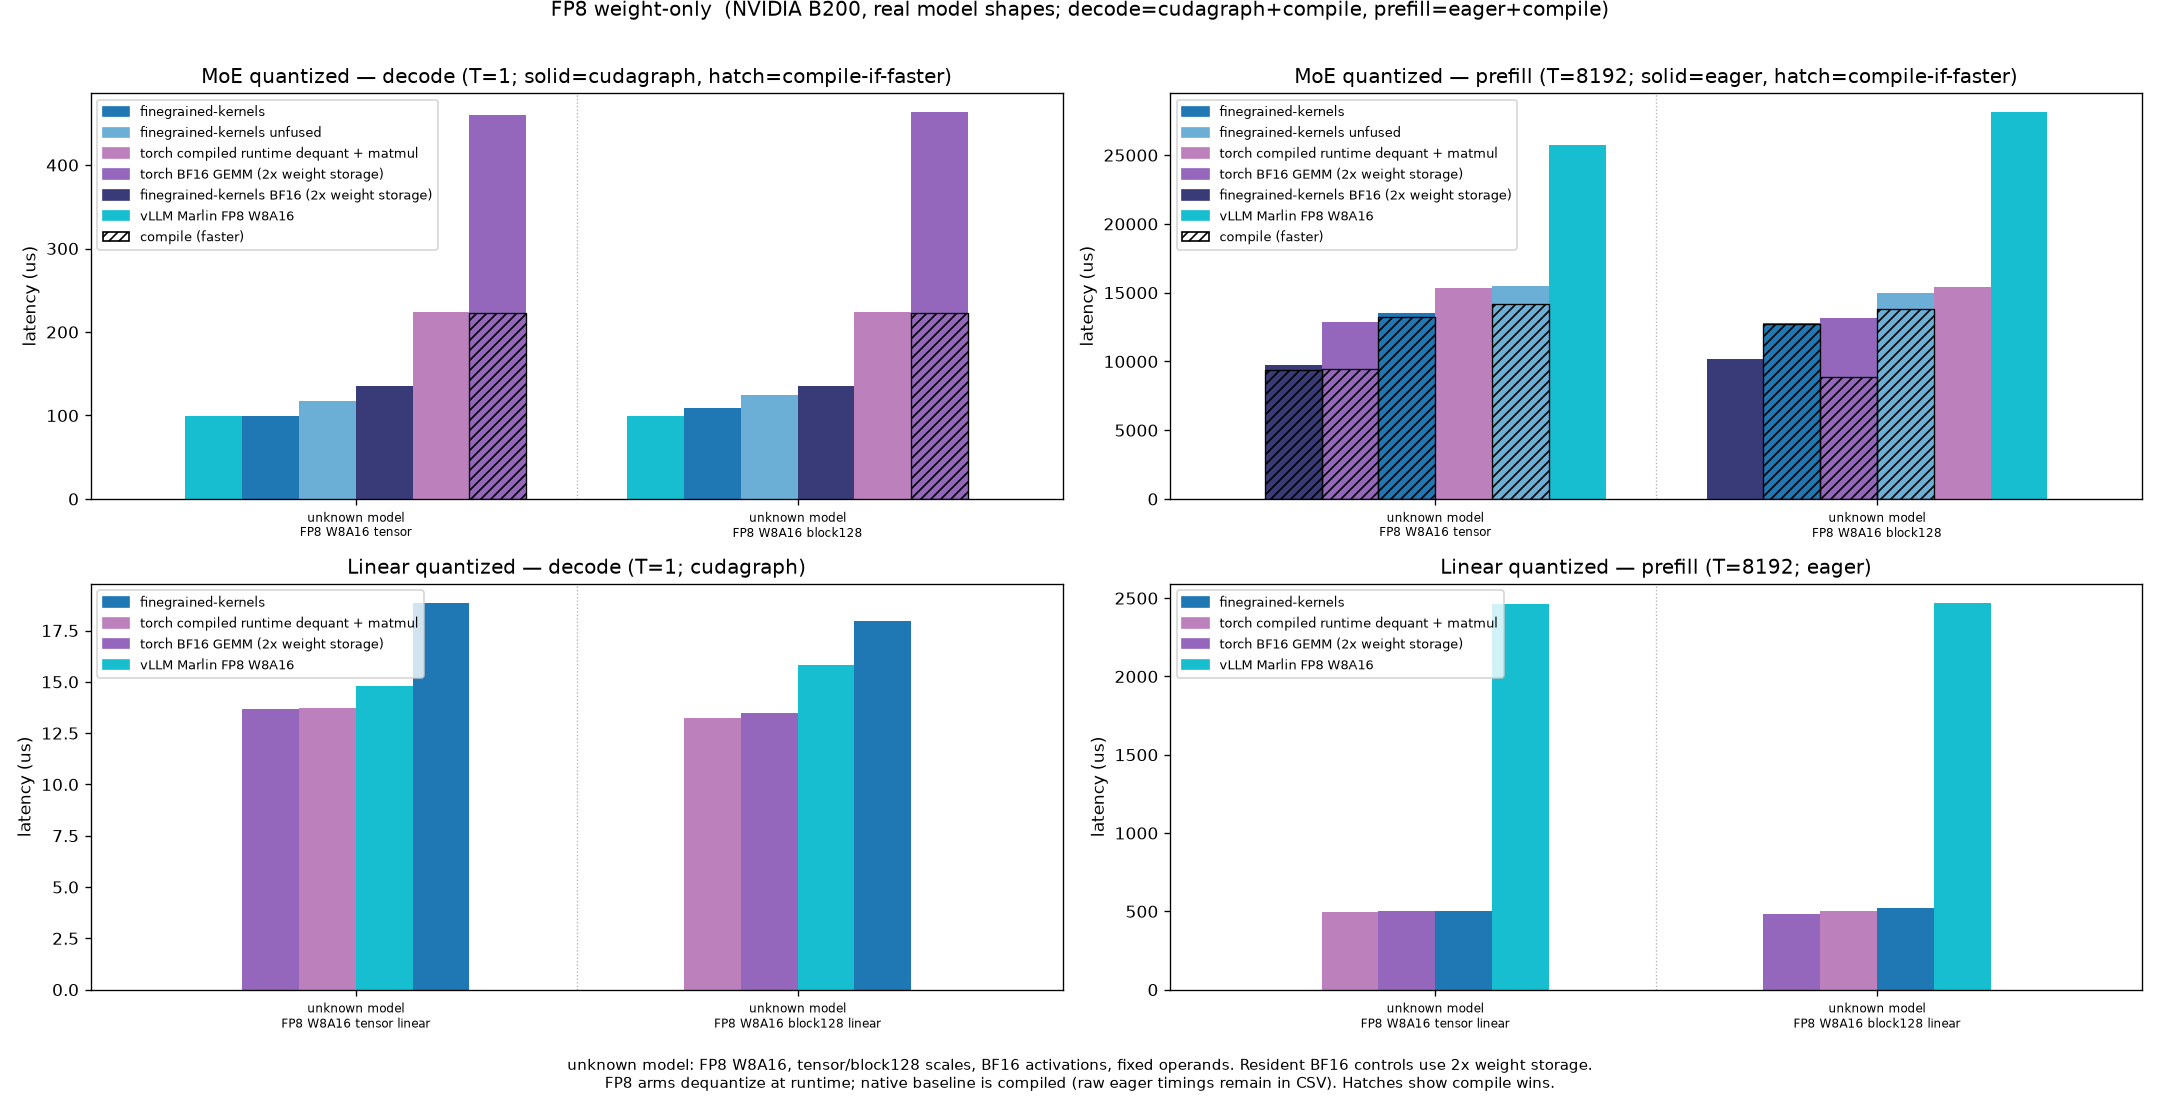
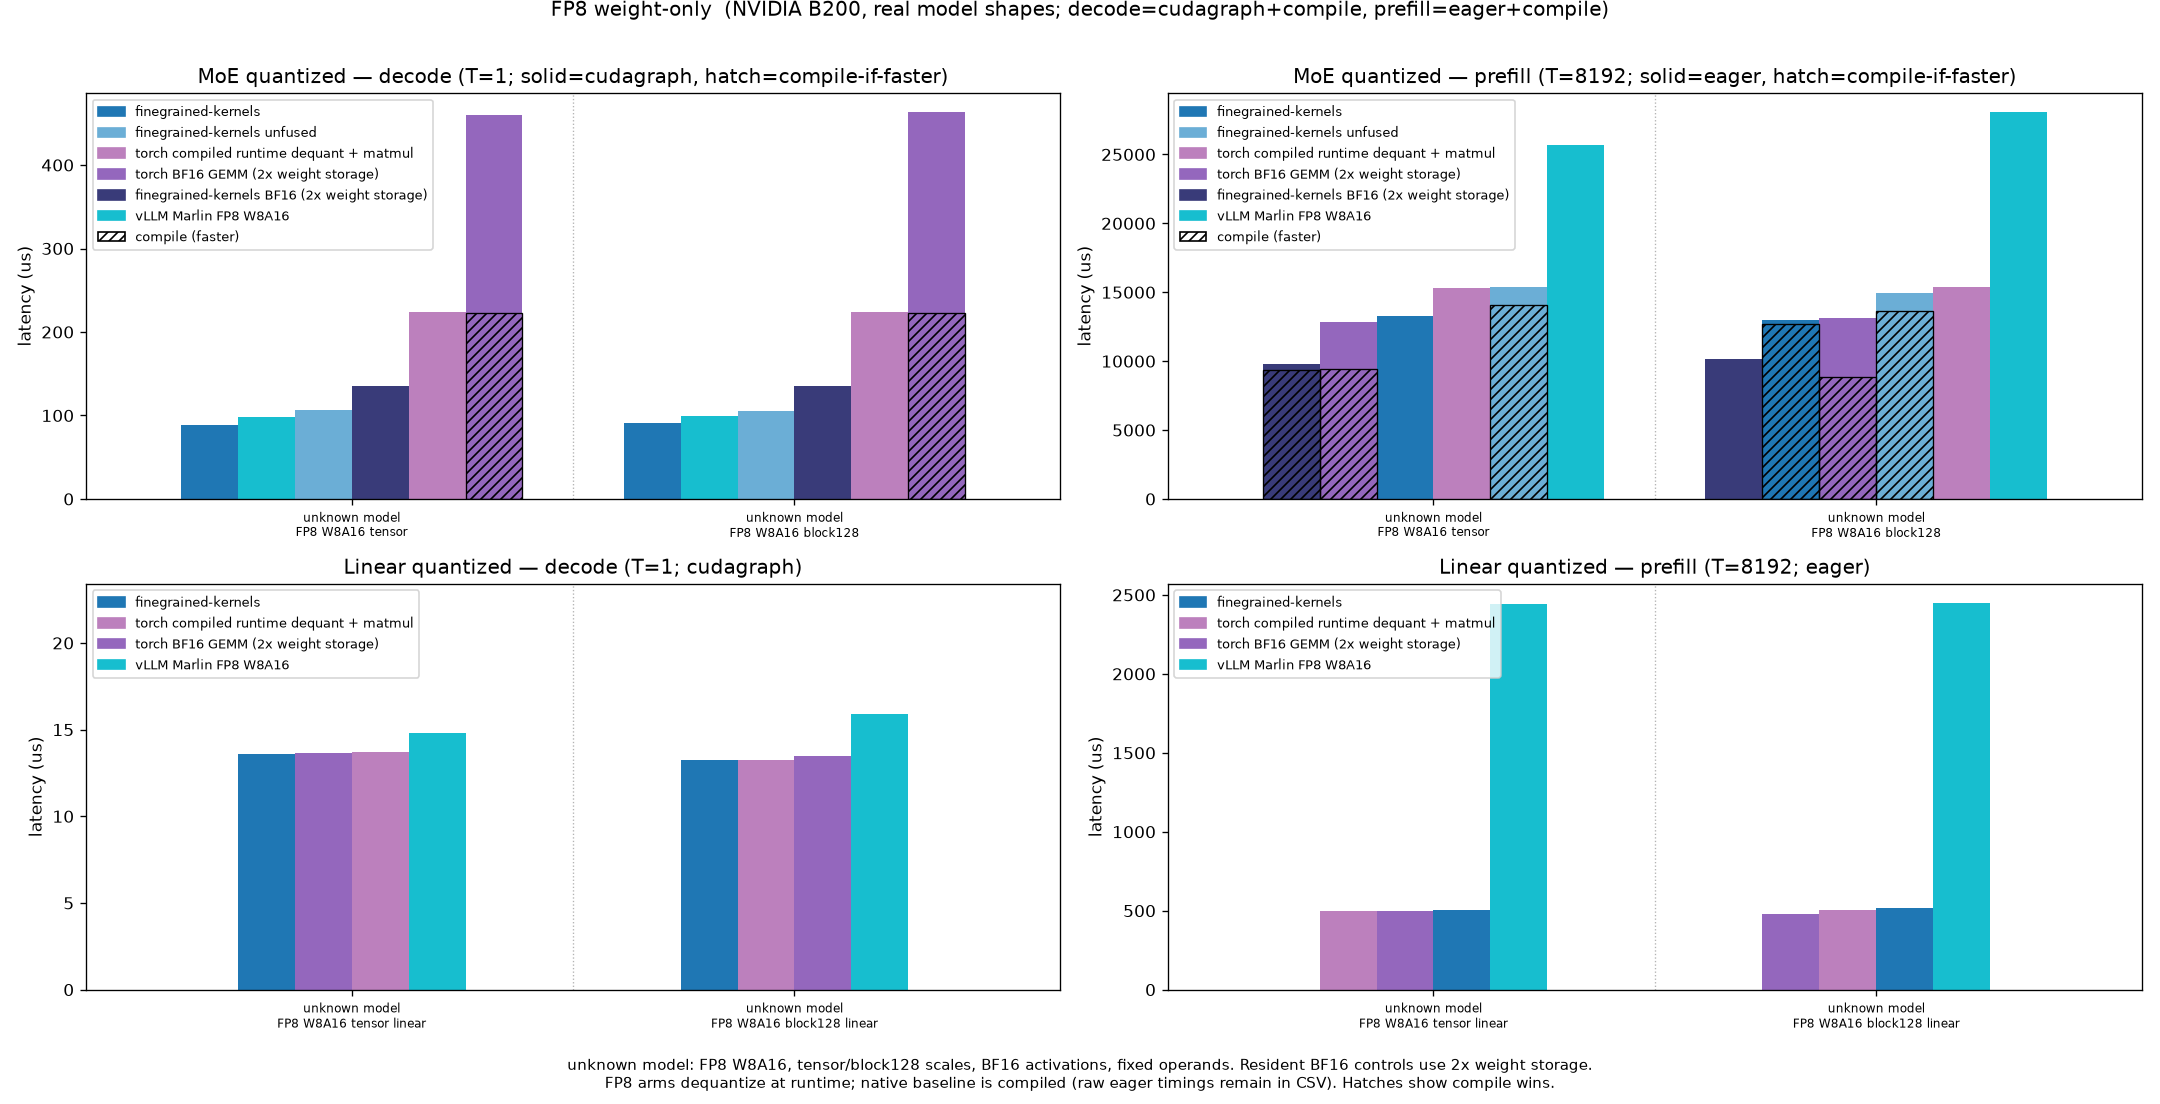
Refresh FP8 weight-only comparisons with Marlin

diff --git a/finegrained-kernels/bench/bench_moe.py b/finegrained-kernels/bench/bench_moe.py
@@ -2107,6 +2107,8 @@ for ri, row in enumerate(present_rows):
         if eager_only_drawn:
             handles.append(mpatches.Patch(facecolor="none", edgecolor="black",
                                           hatch="..", label="eager (no cudagraph)"))
+        if weight_only_only and row == "linear quantized" and regime == "decode":
+            ax.set_ylim(top=1.4 * ax.get_ylim()[1])
         ax.legend(handles=handles, loc="upper left", fontsize=8)
 benchmark_title = "FP8 weight-only" if weight_only_only else "MoE bench — finegrained-kernels vs finegrained-fp8 + references"
 fig.suptitle(f"{benchmark_title}  "
